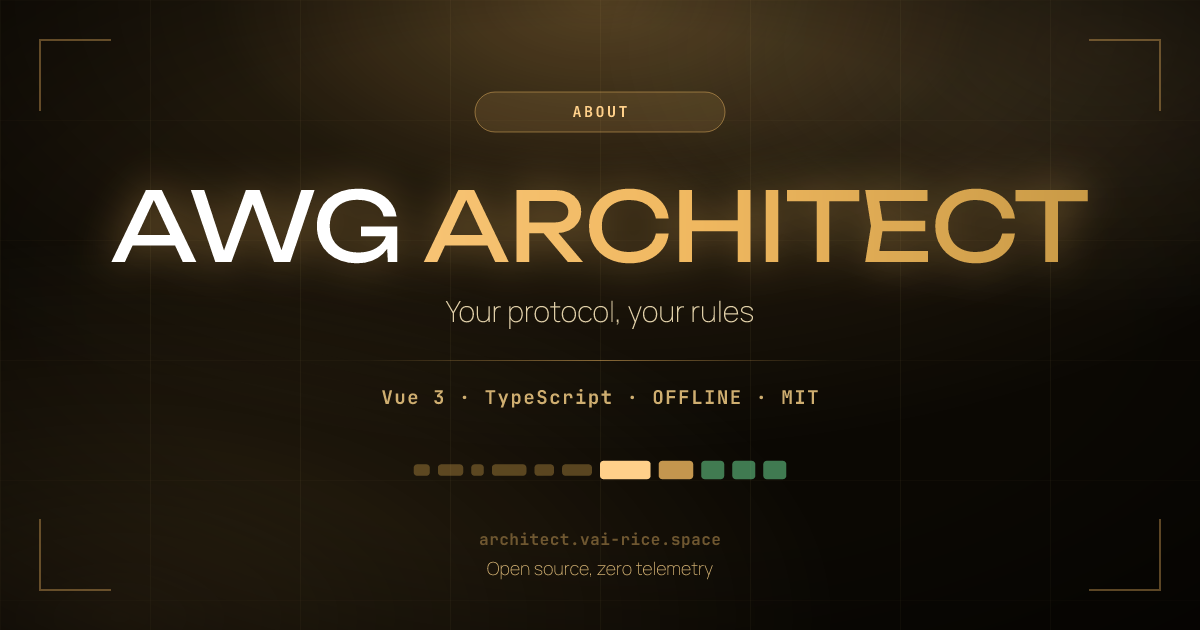
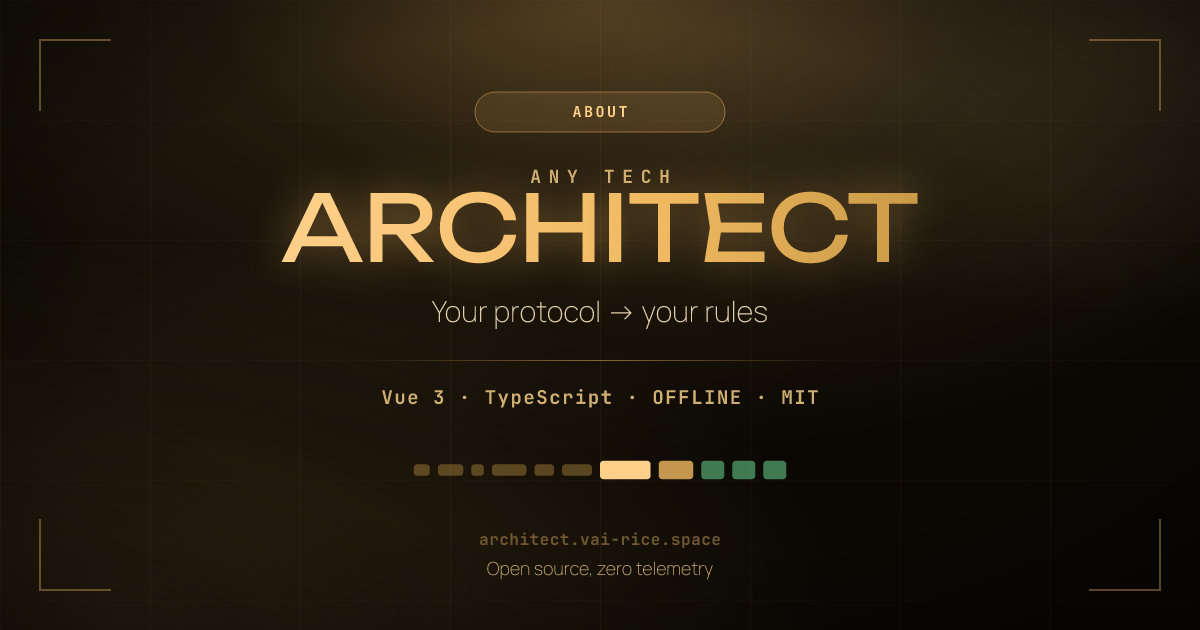
feat(og): a card per engine, and a repo preview that is not a third copy
The landing, AmneziaWG and XRay shared one image, which was fine when
there was one generator. Each now has its own, and the two-part title
gives way to a lockup where it should: 'Any Tech' is a qualifier and
ARCHITECT is the name, and setting both at one size made the product
sound as though it were called all three words.

The GitHub preview stops being a link card. Those are centred stacks
meant to be read in a feed in half a second; this one is looked at next
to a README, so it is a spread — the name on the left, and on the right
the two engines drawn rather than listed: a junk train for AmneziaWG, a
donor's name with your traffic inside it for XRay. It is the only image
carrying both accents, which is the thing this version changed.

About moves to the lockup too, its page having been rewritten. FAQ, the
simulator and merge-keys keep the old wordmark until their pages catch
up.

Changed region(s): [[0.0925, 0.2714, 0.925, 0.4222], [0.37, 0.4825, 0.6475, 0.5127]]

diff --git a/src/i18n/seo.ts b/src/i18n/seo.ts
@@ -60,7 +60,7 @@ export const ROUTE_SEO: SeoTable = {
       ogTitle: "AmneziaWG Architect — генератор конфигураций",
       ogDescription:
         "Обфускация AmneziaWG 1.0–3.0: junk-пакеты, магические заголовки, профили мимикрии QUIC/TLS/DTLS/SIP и защита заголовков ChaCha20.",
-      ogImage: "og-image.png",
+      ogImage: "og-amneziawg.png",
       keywords:
         "AmneziaWG, AmneziaWG 3.0, обход блокировок, DPI, WireGuard, обфускация, генератор конфигов, VPN, Jc, Jmin, Jmax, HeaderProtectionKey",
     },
@@ -71,30 +71,30 @@ export const ROUTE_SEO: SeoTable = {
       ogTitle: "AmneziaWG Architect — config generator",
       ogDescription:
         "AmneziaWG 1.0–3.0 obfuscation: junk packets, magic headers, QUIC/TLS/DTLS/SIP mimicry profiles and ChaCha20 header protection.",
-      ogImage: "og-image-en.png",
+      ogImage: "og-amneziawg-en.png",
       keywords:
         "AmneziaWG, AmneziaWG 3.0, DPI bypass, WireGuard, obfuscation, config generator, VPN, censorship circumvention, HeaderProtectionKey",
     },
   },
   xray: {
     ru: {
-      title: "XRay / REALITY — Any Tech ARCHITECT",
+      title: "XRay ARCHITECT — генератор конфигураций XRay / REALITY",
       description:
         "Движок XRay/REALITY: ключи X25519 и shortIds, ML-DSA-65, DSL шифрования VLESS, транспорты XHTTP, отпечатки браузеров и FinalMask. Проверен против выпущенных ядер Xray. Интерфейс собирается.",
       ogTitle: "XRay / REALITY — в работе",
       ogDescription:
         "Движок написан и покрыт тестами против выпущенных ядер. Интерфейс к нему ещё собирается — здесь видно, что уже готово, а чего пока нет.",
-      ogImage: "og-image.png",
+      ogImage: "og-xray.png",
       keywords: "XRay, REALITY, VLESS, XHTTP, ML-DSA-65, fingerprint, обход блокировок",
     },
     en: {
-      title: "XRay / REALITY — Any Tech ARCHITECT",
+      title: "XRay ARCHITECT — XRay / REALITY config generator",
       description:
         "The XRay/REALITY engine: X25519 keys and shortIds, ML-DSA-65, the VLESS encryption DSL, XHTTP transports, browser fingerprints and FinalMask. Tested against released Xray cores. The interface is being built.",
       ogTitle: "XRay / REALITY — in progress",
       ogDescription:
         "The engine is written and tested against released cores. The interface to it is still being built; this page states what is done and what is not.",
-      ogImage: "og-image-en.png",
+      ogImage: "og-xray-en.png",
       keywords: "XRay, REALITY, VLESS, XHTTP, ML-DSA-65, fingerprint, censorship circumvention",
     },
   },

diff --git a/README.md b/README.md
@@ -1,6 +1,6 @@
 <div align="center">
 
-<img src=".github/assets/github-preview.png" alt="AmneziaWG Architect" width="100%">
+<img src=".github/assets/github-preview.png" alt="Any Tech Architect" width="100%">
 
 **Русский** · [English](README.en.md)
 
